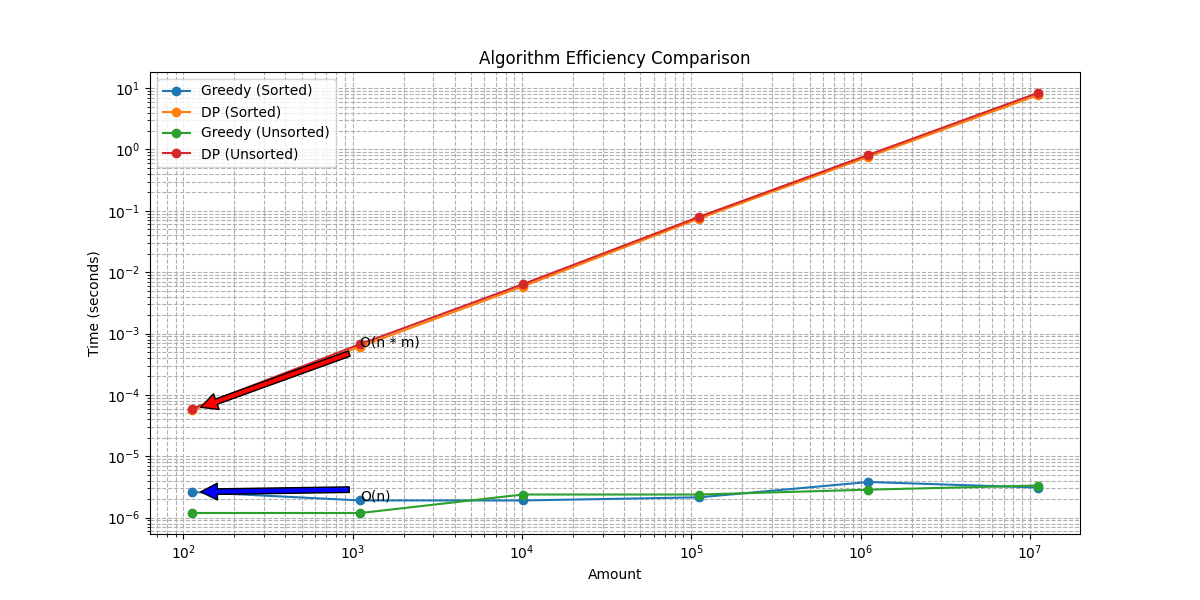
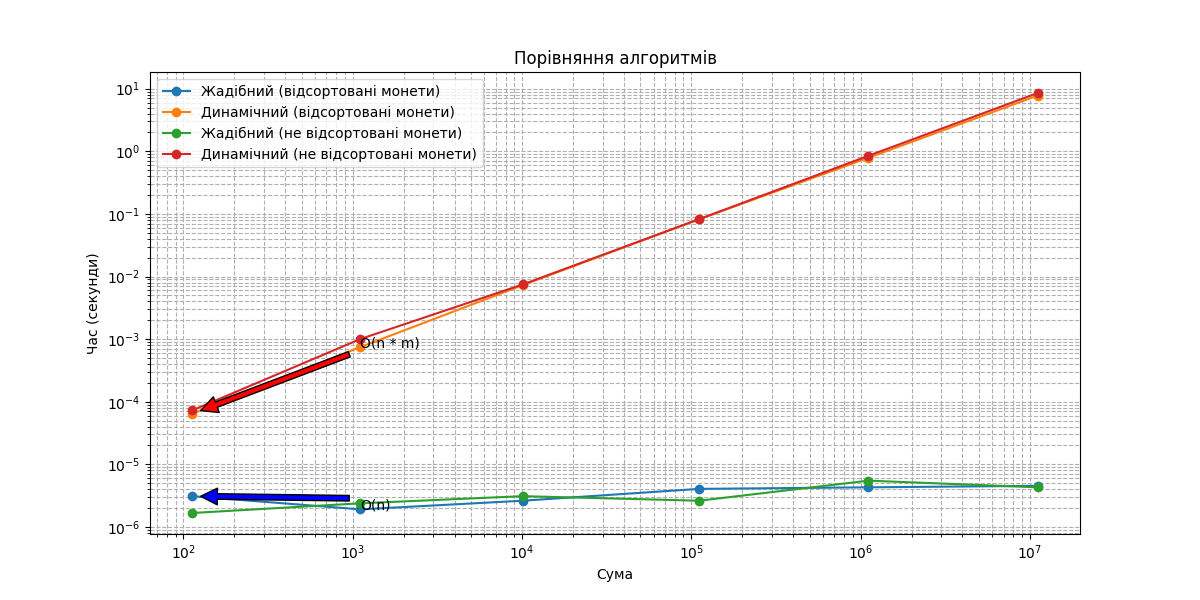
Update plot lables

diff --git a/task1.py b/task1.py
@@ -98,8 +98,8 @@ def compare_algorithms(amount: int, coins:list) -> tuple:
     
     return greedy_result, greedy_time, dp_result, dp_time
 
-def testing():
-    # Тестування алгоритмів
+def testing()->None:
+    """ Тестування алгоритмів """
     amount = 113
     coins = [1, 2, 5, 10, 25, 50]
     print(f"Сума: {amount}, {coins} ", end="\n\n")
@@ -107,7 +107,8 @@ def testing():
     print(f"Жадібний алгоритм: {greedy_result}, Час: {greedy_time}")
     print(f"Алгоритм динамічного програмування: {dp_result}, Час: {dp_time}")
 
-if __name__ == "__main__":
+def main()->None:
+    """ Головна функція """
     # Генерація тестових даних
     test_amounts = [113, 1113, 10113, 111307, 1113113, 11131137]
     test_coins_unsorted = [1, 2, 5, 10, 25, 50]
@@ -139,19 +140,35 @@ if __name__ == "__main__":
         print(f"Жадібний алгоритм: {greedy_result}, Час: {greedy_time:0.6f}")
         print(f"Алгоритм динамічного програмування: {dp_result}, Час: {dp_time:0.6f}", end="\n\n")
 
-    # Побудова графіку
-    plt.figure(figsize=(12, 6))
-
-    plt.plot(results["amount"], results["greedy_time_sorted"], label="Greedy (Sorted)", marker='o')
-    plt.plot(results["amount"], results["dp_time_sorted"], label="DP (Sorted)", marker='o')
-    plt.plot(results["amount"], results["greedy_time_unsorted"], label="Greedy (Unsorted)", marker='o')
-    plt.plot(results["amount"], results["dp_time_unsorted"], label="DP (Unsorted)", marker='o')
+    plt.figure("Графік порівняння", figsize=(12, 6))
+    plt.plot(
+        results["amount"],
+        results["greedy_time_sorted"],
+        label="Жадібний (відсортовані монети)",
+        marker="o",
+    )
+    plt.plot(
+        results["amount"], 
+        results["dp_time_sorted"], 
+        label="Динамічний (відсортовані монети)", marker='o')
+    plt.plot(
+        results["amount"],
+        results["greedy_time_unsorted"],
+        label="Жадібний (не відсортовані монети)",
+        marker="o",
+    )
+    plt.plot(
+        results["amount"],
+        results["dp_time_unsorted"],
+        label="Динамічний (не відсортовані монети)",
+        marker="o",
+    )
 
     plt.xscale('log')
     plt.yscale('log')
-    plt.xlabel('Amount')
-    plt.ylabel('Time (seconds)')
-    plt.title('Algorithm Efficiency Comparison')
+    plt.xlabel('Сума')
+    plt.ylabel('Час (секунди)')
+    plt.title('Порівняння алгоритмів')
     plt.legend()
     plt.grid(True, which="both", ls="--")
 
@@ -164,4 +181,8 @@ if __name__ == "__main__":
     plt.annotate(dp_efficiency, xy=(test_amounts[0], results["dp_time_sorted"][0]), xytext=(test_amounts[1], results["dp_time_sorted"][1]),
                  arrowprops=dict(facecolor='red', shrink=0.05))
     plt.savefig('algorithm_efficiency_comparison.png')
-    plt.show()
+    plt.show()    
+
+if __name__ == "__main__":
+    main()
+    #testing()
